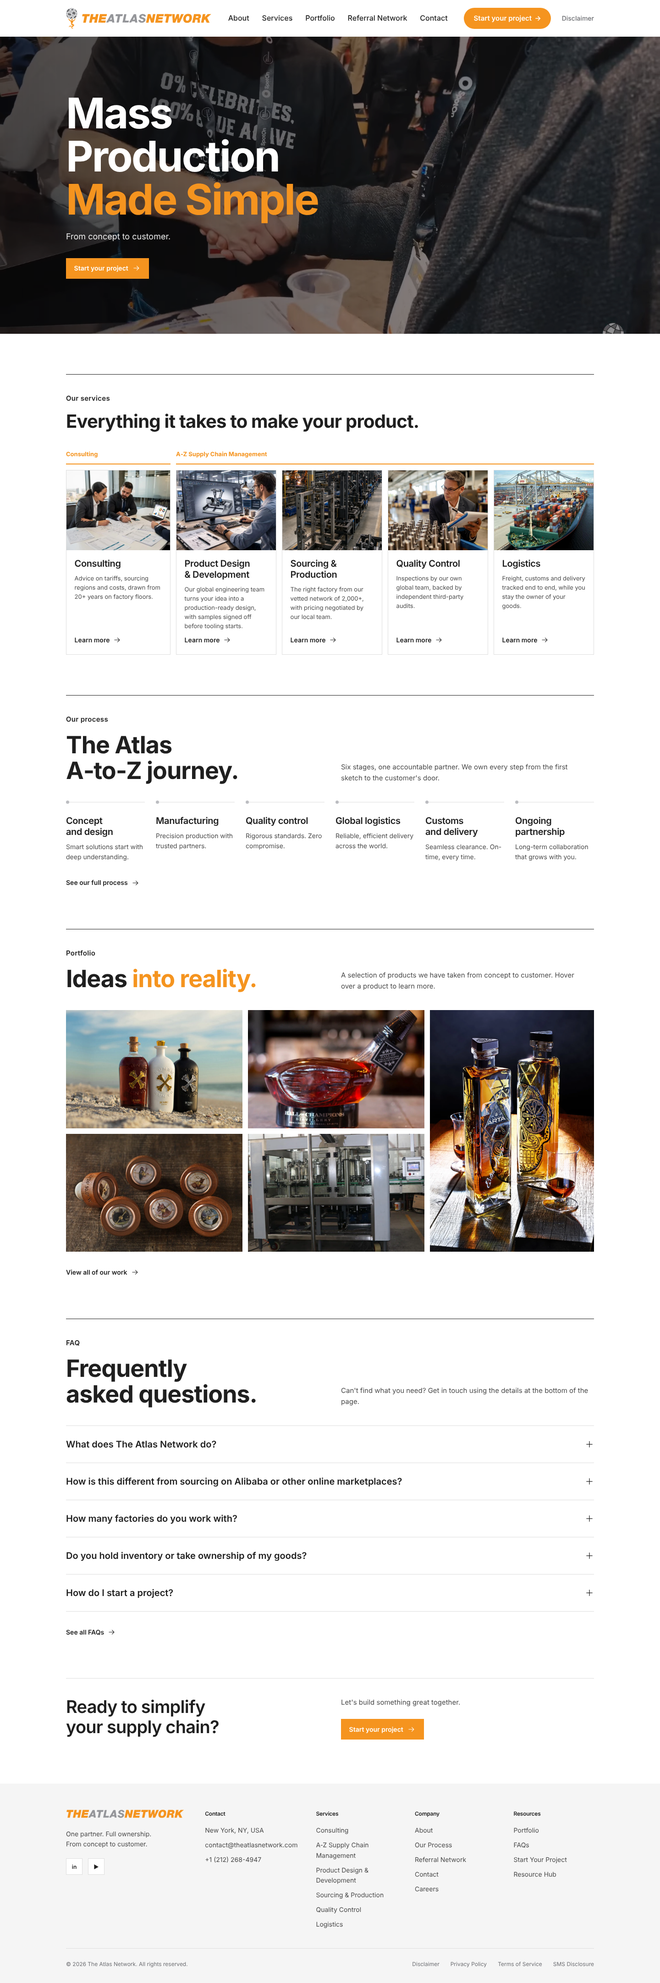
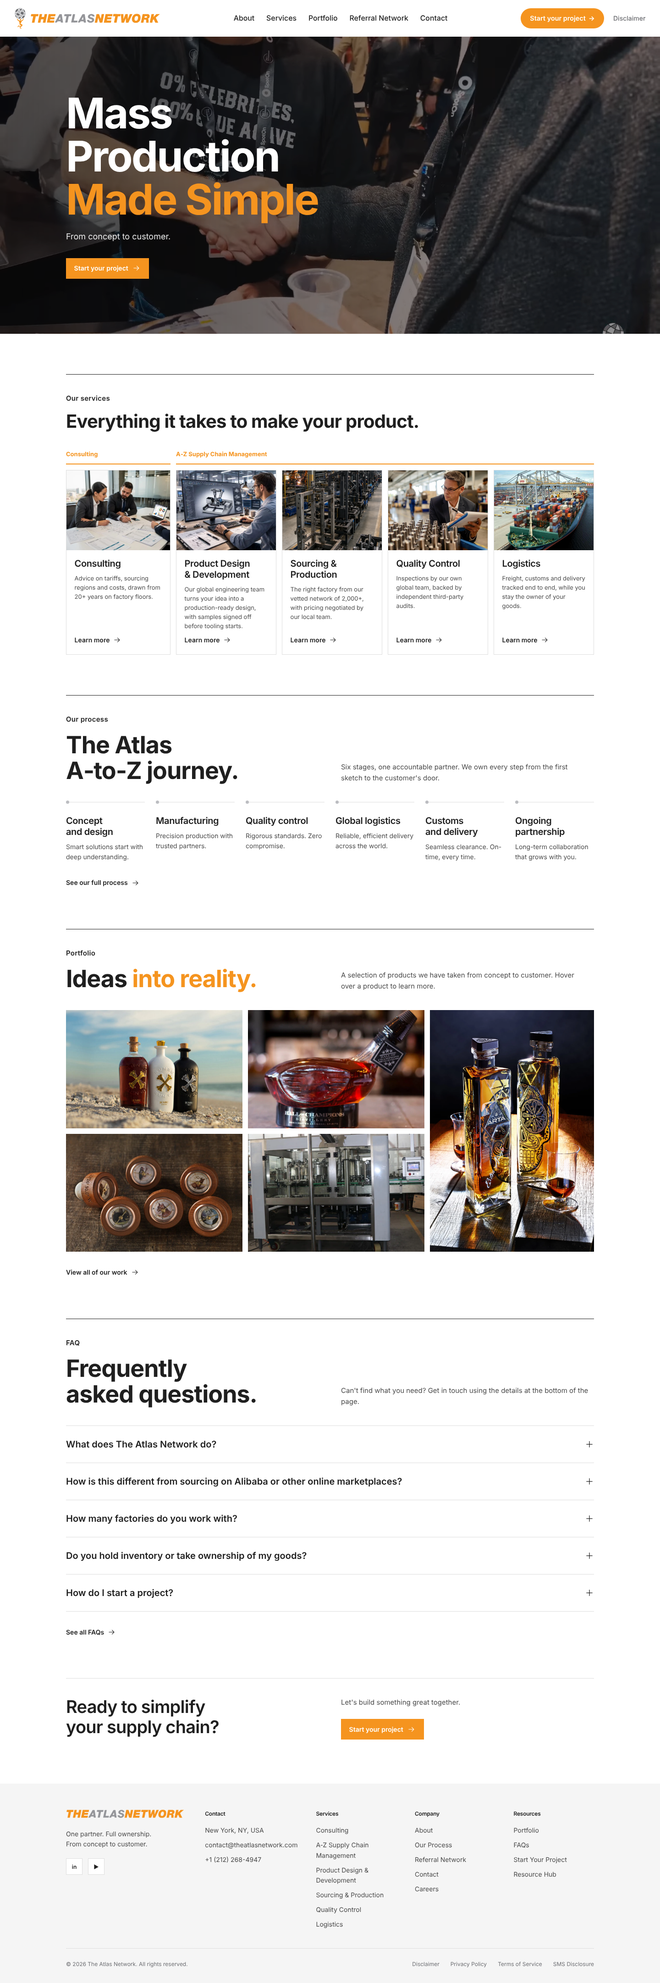
Keep the full top bar on desktop
The top bar uses a wider frame with the logo further left, a centred
menu, and the Start your project button and Disclaimer grouped on the
right. Logo, menu, gaps and button scale down on narrower desktops so
every link stays visible from 1024px up; the menu button is used only
on tablets and phones.

Claude-Session: https://claude.ai/code/session_01YL3eWvwcXdoF4z8yaZ8Eba

diff --git a/assets/css/site.css b/assets/css/site.css
@@ -56,21 +56,25 @@ a.service:hover, .steps a:hover, a.logo:hover, .social a:hover { text-decoration
 
 /* ---- Top bar ---- */
 .topbar { position: sticky; top: env(safe-area-inset-top, 0px); z-index: 50; background: var(--white); }
-.topbar nav { display: flex; align-items: center; justify-content: space-between; gap: 2rem; height: 80px; }
+/* The top bar uses a wider frame than the page so every link fits on desktop; sizes scale down on narrower screens. */
+.topbar .container { max-width: 1440px; padding: 0 clamp(16px, 2.2vw, 40px); }
+.topbar nav { display: flex; align-items: center; gap: clamp(.9rem, 1.4vw, 1.25rem); height: 80px; }
+.topbar .menu { margin-inline: auto; padding-inline: clamp(1rem, 2vw, 2rem); }  /* centred between the logo and the button */
 /* The Atlas figure (assets/images/logo-mark.svg) sits to the left of the wordmark. */
 .logo { display: inline-flex; align-items: center; gap: .6rem; font-weight: 700; font-size: 1rem; letter-spacing: .04em; color: var(--ink); white-space: nowrap; }
 .topbar .logo { font-size: 1.4375rem; line-height: 1; letter-spacing: .02em; }
-.logo-mark { height: 46px; width: auto; }
+.logo-mark { height: clamp(38px, 3.2vw, 46px); width: auto; }
 @media (max-width: 480px) { .topbar .logo-type { height: 17px; } .topbar .logo-mark { height: 40px; } }
-.logo-type { height: 22px; width: auto; }  /* traced wordmark from the company logo */
+.logo-type { height: 22px; width: auto; }
+.topbar .logo-type { height: clamp(17px, 1.55vw, 22px); }  /* traced wordmark from the company logo */
 .footer-cols .logo-type { height: 20px; }
-.menu { display: flex; gap: 1.75rem; font-size: 1rem; font-weight: 500; color: var(--ink); white-space: nowrap; }
+.menu { display: flex; gap: clamp(1rem, 1.8vw, 1.75rem); font-size: clamp(.875rem, 1.1vw, 1rem); font-weight: 500; color: var(--ink); white-space: nowrap; }
 .menu a, .topbar-cta { transition: color .2s; }
 .menu a:hover { color: var(--orange); }
-.topbar-cta { font-size: .9375rem; font-weight: 600; color: var(--white); background: var(--orange); padding: .7rem 1.35rem; border-radius: 999px; white-space: nowrap; display: inline-flex; align-items: center; gap: .4rem; transition: background .2s; }
+.topbar-cta { font-size: clamp(.8125rem, 1vw, .9375rem); font-weight: 600; color: var(--white); background: var(--orange); padding: .65rem clamp(.9rem, 1.4vw, 1.35rem); border-radius: 999px; white-space: nowrap; display: inline-flex; align-items: center; gap: .4rem; transition: background .2s; }
 .topbar-cta:hover { background: var(--orange-dark); }
 .menu-btn { display: none; background: none; border: 0; padding: .5rem; margin-right: -.5rem; color: var(--ink); cursor: pointer; }
-@media (max-width: 1300px) {
+@media (max-width: 1023px) {
   .menu-btn { display: block; }
   .topbar-cta { display: none; }
   .menu { display: none; position: absolute; top: 80px; left: 0; right: 0; flex-direction: column; gap: 0; background: var(--white); border-top: 1px solid var(--rule); padding: .5rem var(--gutter) 1rem; box-shadow: 0 12px 24px rgba(0,0,0,.06); }
@@ -200,10 +204,10 @@ footer { background: var(--surface); margin-top: 3rem; padding: 3.5rem 0 2rem; f
 .menu a[aria-current="page"] { color: var(--orange); }
 .topbar-cta[aria-current="page"] { background: var(--orange-dark); }
 /* Disclaimer link at the far right of the top bar; inside the menu on smaller screens */
-.topbar-aux { font-size: .875rem; font-weight: 500; color: var(--muted); white-space: nowrap; margin-left: -.75rem; }
+.topbar-aux { font-size: clamp(.8125rem, 1vw, .875rem); font-weight: 500; color: var(--muted); white-space: nowrap; }
 .topbar-aux:hover, .topbar-aux[aria-current="page"] { color: var(--orange); }
 .menu-extra { display: none; }
-@media (max-width: 1300px) { .topbar-aux { display: none; } .menu .menu-extra { display: block; } }
+@media (max-width: 1023px) { .topbar-aux { display: none; } .menu .menu-extra { display: block; } }
 
 /* Detail blocks: one per service or process step */
 .detail { padding-top: 4.5rem; scroll-margin-top: 80px; }

diff --git a/start-your-project.html b/start-your-project.html
@@ -7,14 +7,14 @@
 <title>Start Your Project | The Atlas Network</title>
 <meta name="description" content="The Atlas Network is a full-service supply chain company that manages your product end-to-end - concept and design, manufacturing, quality control, global logistics, customs and delivery."/>
 <meta name="robots" content="noindex, follow"/>
-<link href="assets/css/site.css?v=3f98c706" rel="stylesheet"/>
+<link href="assets/css/site.css?v=693f5a7a" rel="stylesheet"/>
 </head>
 <body>
 
 <header class="topbar">
   <div class="container">
     <nav aria-label="Global">
-      <a class="logo" href="index.html" aria-label="The Atlas Network - home"><img class="logo-mark" src="assets/images/logo-mark.svg?v=3f98c706" width="329" height="612" alt=""/><img class="logo-type" src="assets/images/logo-wordmark.svg?v=3f98c706" width="917" height="71" alt=""/></a>
+      <a class="logo" href="index.html" aria-label="The Atlas Network - home"><img class="logo-mark" src="assets/images/logo-mark.svg?v=693f5a7a" width="329" height="612" alt=""/><img class="logo-type" src="assets/images/logo-wordmark.svg?v=693f5a7a" width="917" height="71" alt=""/></a>
       <div id="menu" class="menu">
         <a href="about.html">About</a>
         <a href="services.html">Services</a>
@@ -100,7 +100,7 @@
   <div class="container">
     <div class="footer-cols">
       <div>
-        <a class="logo" href="index.html" aria-label="The Atlas Network - home"><img class="logo-type" src="assets/images/logo-wordmark.svg?v=3f98c706" width="917" height="71" alt=""/></a>
+        <a class="logo" href="index.html" aria-label="The Atlas Network - home"><img class="logo-type" src="assets/images/logo-wordmark.svg?v=693f5a7a" width="917" height="71" alt=""/></a>
         <p class="tagline">One partner. Full ownership.<br/> From concept to customer.</p>
         <div class="social">
           <a href="https://www.linkedin.com/in/theatlasnetwork/" aria-label="LinkedIn">in</a>
@@ -142,7 +142,7 @@
   </div>
 </footer>
 
-<script src="assets/js/site.js?v=3f98c706"></script>
-<script src="assets/js/project-form.js?v=3f98c706"></script>
+<script src="assets/js/site.js?v=693f5a7a"></script>
+<script src="assets/js/project-form.js?v=693f5a7a"></script>
 </body>
 </html>

diff --git a/index.html b/index.html
@@ -7,14 +7,14 @@
 <title>The Atlas Network</title>
 <meta name="description" content="The Atlas Network is a full-service supply chain company that manages your product end-to-end - concept and design, manufacturing, quality control, global logistics, customs and delivery. One partner, zero fragmentation."/>
 <meta name="robots" content="noindex, follow"/>
-<link href="assets/css/site.css?v=3f98c706" rel="stylesheet"/>
+<link href="assets/css/site.css?v=693f5a7a" rel="stylesheet"/>
 </head>
 <body>
 
 <header class="topbar">
   <div class="container">
     <nav aria-label="Global">
-      <a class="logo" href="index.html" aria-label="The Atlas Network - home"><img class="logo-mark" src="assets/images/logo-mark.svg?v=3f98c706" width="329" height="612" alt=""/><img class="logo-type" src="assets/images/logo-wordmark.svg?v=3f98c706" width="917" height="71" alt=""/></a>
+      <a class="logo" href="index.html" aria-label="The Atlas Network - home"><img class="logo-mark" src="assets/images/logo-mark.svg?v=693f5a7a" width="329" height="612" alt=""/><img class="logo-type" src="assets/images/logo-wordmark.svg?v=693f5a7a" width="917" height="71" alt=""/></a>
       <div id="menu" class="menu">
         <a href="about.html">About</a>
         <a href="services.html">Services</a>
@@ -195,7 +195,7 @@
   <div class="container">
     <div class="footer-cols">
       <div>
-        <a class="logo" href="index.html" aria-label="The Atlas Network - home"><img class="logo-type" src="assets/images/logo-wordmark.svg?v=3f98c706" width="917" height="71" alt=""/></a>
+        <a class="logo" href="index.html" aria-label="The Atlas Network - home"><img class="logo-type" src="assets/images/logo-wordmark.svg?v=693f5a7a" width="917" height="71" alt=""/></a>
         <p class="tagline">One partner. Full ownership.<br/> From concept to customer.</p>
         <div class="social">
           <a href="https://www.linkedin.com/in/theatlasnetwork/" aria-label="LinkedIn">in</a>
@@ -237,6 +237,6 @@
   </div>
 </footer>
 
-<script src="assets/js/site.js?v=3f98c706"></script>
+<script src="assets/js/site.js?v=693f5a7a"></script>
 </body>
 </html>

diff --git a/about.html b/about.html
@@ -7,14 +7,14 @@
 <title>About Us | The Atlas Network</title>
 <meta name="description" content="The Atlas Network is a full-service supply chain company that manages your product end-to-end - concept and design, manufacturing, quality control, global logistics, customs and delivery."/>
 <meta name="robots" content="noindex, follow"/>
-<link href="assets/css/site.css?v=3f98c706" rel="stylesheet"/>
+<link href="assets/css/site.css?v=693f5a7a" rel="stylesheet"/>
 </head>
 <body>
 
 <header class="topbar">
   <div class="container">
     <nav aria-label="Global">
-      <a class="logo" href="index.html" aria-label="The Atlas Network - home"><img class="logo-mark" src="assets/images/logo-mark.svg?v=3f98c706" width="329" height="612" alt=""/><img class="logo-type" src="assets/images/logo-wordmark.svg?v=3f98c706" width="917" height="71" alt=""/></a>
+      <a class="logo" href="index.html" aria-label="The Atlas Network - home"><img class="logo-mark" src="assets/images/logo-mark.svg?v=693f5a7a" width="329" height="612" alt=""/><img class="logo-type" src="assets/images/logo-wordmark.svg?v=693f5a7a" width="917" height="71" alt=""/></a>
       <div id="menu" class="menu">
         <a href="about.html" aria-current="page">About</a>
         <a href="services.html">Services</a>
@@ -143,7 +143,7 @@
   <div class="container">
     <div class="footer-cols">
       <div>
-        <a class="logo" href="index.html" aria-label="The Atlas Network - home"><img class="logo-type" src="assets/images/logo-wordmark.svg?v=3f98c706" width="917" height="71" alt=""/></a>
+        <a class="logo" href="index.html" aria-label="The Atlas Network - home"><img class="logo-type" src="assets/images/logo-wordmark.svg?v=693f5a7a" width="917" height="71" alt=""/></a>
         <p class="tagline">One partner. Full ownership.<br/> From concept to customer.</p>
         <div class="social">
           <a href="https://www.linkedin.com/in/theatlasnetwork/" aria-label="LinkedIn">in</a>
@@ -185,6 +185,6 @@
   </div>
 </footer>
 
-<script src="assets/js/site.js?v=3f98c706"></script>
+<script src="assets/js/site.js?v=693f5a7a"></script>
 </body>
 </html>

diff --git a/services.html b/services.html
@@ -7,14 +7,14 @@
 <title>Services | The Atlas Network</title>
 <meta name="description" content="The Atlas Network is a full-service supply chain company that manages your product end-to-end - concept and design, manufacturing, quality control, global logistics, customs and delivery."/>
 <meta name="robots" content="noindex, follow"/>
-<link href="assets/css/site.css?v=3f98c706" rel="stylesheet"/>
+<link href="assets/css/site.css?v=693f5a7a" rel="stylesheet"/>
 </head>
 <body>
 
 <header class="topbar">
   <div class="container">
     <nav aria-label="Global">
-      <a class="logo" href="index.html" aria-label="The Atlas Network - home"><img class="logo-mark" src="assets/images/logo-mark.svg?v=3f98c706" width="329" height="612" alt=""/><img class="logo-type" src="assets/images/logo-wordmark.svg?v=3f98c706" width="917" height="71" alt=""/></a>
+      <a class="logo" href="index.html" aria-label="The Atlas Network - home"><img class="logo-mark" src="assets/images/logo-mark.svg?v=693f5a7a" width="329" height="612" alt=""/><img class="logo-type" src="assets/images/logo-wordmark.svg?v=693f5a7a" width="917" height="71" alt=""/></a>
       <div id="menu" class="menu">
         <a href="about.html">About</a>
         <a href="services.html" aria-current="page">Services</a>
@@ -199,7 +199,7 @@
   <div class="container">
     <div class="footer-cols">
       <div>
-        <a class="logo" href="index.html" aria-label="The Atlas Network - home"><img class="logo-type" src="assets/images/logo-wordmark.svg?v=3f98c706" width="917" height="71" alt=""/></a>
+        <a class="logo" href="index.html" aria-label="The Atlas Network - home"><img class="logo-type" src="assets/images/logo-wordmark.svg?v=693f5a7a" width="917" height="71" alt=""/></a>
         <p class="tagline">One partner. Full ownership.<br/> From concept to customer.</p>
         <div class="social">
           <a href="https://www.linkedin.com/in/theatlasnetwork/" aria-label="LinkedIn">in</a>
@@ -241,6 +241,6 @@
   </div>
 </footer>
 
-<script src="assets/js/site.js?v=3f98c706"></script>
+<script src="assets/js/site.js?v=693f5a7a"></script>
 </body>
 </html>

diff --git a/referral-network.html b/referral-network.html
@@ -7,14 +7,14 @@
 <title>Referral Network | The Atlas Network</title>
 <meta name="description" content="The Atlas Network is a full-service supply chain company that manages your product end-to-end - concept and design, manufacturing, quality control, global logistics, customs and delivery."/>
 <meta name="robots" content="noindex, follow"/>
-<link href="assets/css/site.css?v=3f98c706" rel="stylesheet"/>
+<link href="assets/css/site.css?v=693f5a7a" rel="stylesheet"/>
 </head>
 <body>
 
 <header class="topbar">
   <div class="container">
     <nav aria-label="Global">
-      <a class="logo" href="index.html" aria-label="The Atlas Network - home"><img class="logo-mark" src="assets/images/logo-mark.svg?v=3f98c706" width="329" height="612" alt=""/><img class="logo-type" src="assets/images/logo-wordmark.svg?v=3f98c706" width="917" height="71" alt=""/></a>
+      <a class="logo" href="index.html" aria-label="The Atlas Network - home"><img class="logo-mark" src="assets/images/logo-mark.svg?v=693f5a7a" width="329" height="612" alt=""/><img class="logo-type" src="assets/images/logo-wordmark.svg?v=693f5a7a" width="917" height="71" alt=""/></a>
       <div id="menu" class="menu">
         <a href="about.html">About</a>
         <a href="services.html">Services</a>
@@ -64,7 +64,7 @@
   <div class="container">
     <div class="footer-cols">
       <div>
-        <a class="logo" href="index.html" aria-label="The Atlas Network - home"><img class="logo-type" src="assets/images/logo-wordmark.svg?v=3f98c706" width="917" height="71" alt=""/></a>
+        <a class="logo" href="index.html" aria-label="The Atlas Network - home"><img class="logo-type" src="assets/images/logo-wordmark.svg?v=693f5a7a" width="917" height="71" alt=""/></a>
         <p class="tagline">One partner. Full ownership.<br/> From concept to customer.</p>
         <div class="social">
           <a href="https://www.linkedin.com/in/theatlasnetwork/" aria-label="LinkedIn">in</a>
@@ -106,6 +106,6 @@
   </div>
 </footer>
 
-<script src="assets/js/site.js?v=3f98c706"></script>
+<script src="assets/js/site.js?v=693f5a7a"></script>
 </body>
 </html>

diff --git a/process.html b/process.html
@@ -7,14 +7,14 @@
 <title>Our Process | The Atlas Network</title>
 <meta name="description" content="The Atlas Network is a full-service supply chain company that manages your product end-to-end - concept and design, manufacturing, quality control, global logistics, customs and delivery."/>
 <meta name="robots" content="noindex, follow"/>
-<link href="assets/css/site.css?v=3f98c706" rel="stylesheet"/>
+<link href="assets/css/site.css?v=693f5a7a" rel="stylesheet"/>
 </head>
 <body>
 
 <header class="topbar">
   <div class="container">
     <nav aria-label="Global">
-      <a class="logo" href="index.html" aria-label="The Atlas Network - home"><img class="logo-mark" src="assets/images/logo-mark.svg?v=3f98c706" width="329" height="612" alt=""/><img class="logo-type" src="assets/images/logo-wordmark.svg?v=3f98c706" width="917" height="71" alt=""/></a>
+      <a class="logo" href="index.html" aria-label="The Atlas Network - home"><img class="logo-mark" src="assets/images/logo-mark.svg?v=693f5a7a" width="329" height="612" alt=""/><img class="logo-type" src="assets/images/logo-wordmark.svg?v=693f5a7a" width="917" height="71" alt=""/></a>
       <div id="menu" class="menu">
         <a href="about.html">About</a>
         <a href="services.html">Services</a>
@@ -150,7 +150,7 @@
   <div class="container">
     <div class="footer-cols">
       <div>
-        <a class="logo" href="index.html" aria-label="The Atlas Network - home"><img class="logo-type" src="assets/images/logo-wordmark.svg?v=3f98c706" width="917" height="71" alt=""/></a>
+        <a class="logo" href="index.html" aria-label="The Atlas Network - home"><img class="logo-type" src="assets/images/logo-wordmark.svg?v=693f5a7a" width="917" height="71" alt=""/></a>
         <p class="tagline">One partner. Full ownership.<br/> From concept to customer.</p>
         <div class="social">
           <a href="https://www.linkedin.com/in/theatlasnetwork/" aria-label="LinkedIn">in</a>
@@ -192,6 +192,6 @@
   </div>
 </footer>
 
-<script src="assets/js/site.js?v=3f98c706"></script>
+<script src="assets/js/site.js?v=693f5a7a"></script>
 </body>
 </html>

diff --git a/work.html b/work.html
@@ -7,14 +7,14 @@
 <title>Portfolio | The Atlas Network</title>
 <meta name="description" content="The Atlas Network is a full-service supply chain company that manages your product end-to-end - concept and design, manufacturing, quality control, global logistics, customs and delivery."/>
 <meta name="robots" content="noindex, follow"/>
-<link href="assets/css/site.css?v=3f98c706" rel="stylesheet"/>
+<link href="assets/css/site.css?v=693f5a7a" rel="stylesheet"/>
 </head>
 <body>
 
 <header class="topbar">
   <div class="container">
     <nav aria-label="Global">
-      <a class="logo" href="index.html" aria-label="The Atlas Network - home"><img class="logo-mark" src="assets/images/logo-mark.svg?v=3f98c706" width="329" height="612" alt=""/><img class="logo-type" src="assets/images/logo-wordmark.svg?v=3f98c706" width="917" height="71" alt=""/></a>
+      <a class="logo" href="index.html" aria-label="The Atlas Network - home"><img class="logo-mark" src="assets/images/logo-mark.svg?v=693f5a7a" width="329" height="612" alt=""/><img class="logo-type" src="assets/images/logo-wordmark.svg?v=693f5a7a" width="917" height="71" alt=""/></a>
       <div id="menu" class="menu">
         <a href="about.html">About</a>
         <a href="services.html">Services</a>
@@ -114,7 +114,7 @@
   <div class="container">
     <div class="footer-cols">
       <div>
-        <a class="logo" href="index.html" aria-label="The Atlas Network - home"><img class="logo-type" src="assets/images/logo-wordmark.svg?v=3f98c706" width="917" height="71" alt=""/></a>
+        <a class="logo" href="index.html" aria-label="The Atlas Network - home"><img class="logo-type" src="assets/images/logo-wordmark.svg?v=693f5a7a" width="917" height="71" alt=""/></a>
         <p class="tagline">One partner. Full ownership.<br/> From concept to customer.</p>
         <div class="social">
           <a href="https://www.linkedin.com/in/theatlasnetwork/" aria-label="LinkedIn">in</a>
@@ -156,6 +156,6 @@
   </div>
 </footer>
 
-<script src="assets/js/site.js?v=3f98c706"></script>
+<script src="assets/js/site.js?v=693f5a7a"></script>
 </body>
 </html>

diff --git a/disclaimer.html b/disclaimer.html
@@ -7,14 +7,14 @@
 <title>Disclaimer | The Atlas Network</title>
 <meta name="description" content="The Atlas Network is a full-service supply chain company that manages your product end-to-end - concept and design, manufacturing, quality control, global logistics, customs and delivery."/>
 <meta name="robots" content="noindex, follow"/>
-<link href="assets/css/site.css?v=3f98c706" rel="stylesheet"/>
+<link href="assets/css/site.css?v=693f5a7a" rel="stylesheet"/>
 </head>
 <body>
 
 <header class="topbar">
   <div class="container">
     <nav aria-label="Global">
-      <a class="logo" href="index.html" aria-label="The Atlas Network - home"><img class="logo-mark" src="assets/images/logo-mark.svg?v=3f98c706" width="329" height="612" alt=""/><img class="logo-type" src="assets/images/logo-wordmark.svg?v=3f98c706" width="917" height="71" alt=""/></a>
+      <a class="logo" href="index.html" aria-label="The Atlas Network - home"><img class="logo-mark" src="assets/images/logo-mark.svg?v=693f5a7a" width="329" height="612" alt=""/><img class="logo-type" src="assets/images/logo-wordmark.svg?v=693f5a7a" width="917" height="71" alt=""/></a>
       <div id="menu" class="menu">
         <a href="about.html">About</a>
         <a href="services.html">Services</a>
@@ -76,7 +76,7 @@
   <div class="container">
     <div class="footer-cols">
       <div>
-        <a class="logo" href="index.html" aria-label="The Atlas Network - home"><img class="logo-type" src="assets/images/logo-wordmark.svg?v=3f98c706" width="917" height="71" alt=""/></a>
+        <a class="logo" href="index.html" aria-label="The Atlas Network - home"><img class="logo-type" src="assets/images/logo-wordmark.svg?v=693f5a7a" width="917" height="71" alt=""/></a>
         <p class="tagline">One partner. Full ownership.<br/> From concept to customer.</p>
         <div class="social">
           <a href="https://www.linkedin.com/in/theatlasnetwork/" aria-label="LinkedIn">in</a>
@@ -118,6 +118,6 @@
   </div>
 </footer>
 
-<script src="assets/js/site.js?v=3f98c706"></script>
+<script src="assets/js/site.js?v=693f5a7a"></script>
 </body>
 </html>

diff --git a/contact.html b/contact.html
@@ -7,14 +7,14 @@
 <title>Contact | The Atlas Network</title>
 <meta name="description" content="The Atlas Network is a full-service supply chain company that manages your product end-to-end - concept and design, manufacturing, quality control, global logistics, customs and delivery."/>
 <meta name="robots" content="noindex, follow"/>
-<link href="assets/css/site.css?v=3f98c706" rel="stylesheet"/>
+<link href="assets/css/site.css?v=693f5a7a" rel="stylesheet"/>
 </head>
 <body>
 
 <header class="topbar">
   <div class="container">
     <nav aria-label="Global">
-      <a class="logo" href="index.html" aria-label="The Atlas Network - home"><img class="logo-mark" src="assets/images/logo-mark.svg?v=3f98c706" width="329" height="612" alt=""/><img class="logo-type" src="assets/images/logo-wordmark.svg?v=3f98c706" width="917" height="71" alt=""/></a>
+      <a class="logo" href="index.html" aria-label="The Atlas Network - home"><img class="logo-mark" src="assets/images/logo-mark.svg?v=693f5a7a" width="329" height="612" alt=""/><img class="logo-type" src="assets/images/logo-wordmark.svg?v=693f5a7a" width="917" height="71" alt=""/></a>
       <div id="menu" class="menu">
         <a href="about.html">About</a>
         <a href="services.html">Services</a>
@@ -86,7 +86,7 @@
   <div class="container">
     <div class="footer-cols">
       <div>
-        <a class="logo" href="index.html" aria-label="The Atlas Network - home"><img class="logo-type" src="assets/images/logo-wordmark.svg?v=3f98c706" width="917" height="71" alt=""/></a>
+        <a class="logo" href="index.html" aria-label="The Atlas Network - home"><img class="logo-type" src="assets/images/logo-wordmark.svg?v=693f5a7a" width="917" height="71" alt=""/></a>
         <p class="tagline">One partner. Full ownership.<br/> From concept to customer.</p>
         <div class="social">
           <a href="https://www.linkedin.com/in/theatlasnetwork/" aria-label="LinkedIn">in</a>
@@ -128,6 +128,6 @@
   </div>
 </footer>
 
-<script src="assets/js/site.js?v=3f98c706"></script>
+<script src="assets/js/site.js?v=693f5a7a"></script>
 </body>
 </html>

diff --git a/faq.html b/faq.html
@@ -7,14 +7,14 @@
 <title>FAQ | The Atlas Network</title>
 <meta name="description" content="The Atlas Network is a full-service supply chain company that manages your product end-to-end - concept and design, manufacturing, quality control, global logistics, customs and delivery."/>
 <meta name="robots" content="noindex, follow"/>
-<link href="assets/css/site.css?v=3f98c706" rel="stylesheet"/>
+<link href="assets/css/site.css?v=693f5a7a" rel="stylesheet"/>
 </head>
 <body>
 
 <header class="topbar">
   <div class="container">
     <nav aria-label="Global">
-      <a class="logo" href="index.html" aria-label="The Atlas Network - home"><img class="logo-mark" src="assets/images/logo-mark.svg?v=3f98c706" width="329" height="612" alt=""/><img class="logo-type" src="assets/images/logo-wordmark.svg?v=3f98c706" width="917" height="71" alt=""/></a>
+      <a class="logo" href="index.html" aria-label="The Atlas Network - home"><img class="logo-mark" src="assets/images/logo-mark.svg?v=693f5a7a" width="329" height="612" alt=""/><img class="logo-type" src="assets/images/logo-wordmark.svg?v=693f5a7a" width="917" height="71" alt=""/></a>
       <div id="menu" class="menu">
         <a href="about.html">About</a>
         <a href="services.html">Services</a>
@@ -149,7 +149,7 @@
   <div class="container">
     <div class="footer-cols">
       <div>
-        <a class="logo" href="index.html" aria-label="The Atlas Network - home"><img class="logo-type" src="assets/images/logo-wordmark.svg?v=3f98c706" width="917" height="71" alt=""/></a>
+        <a class="logo" href="index.html" aria-label="The Atlas Network - home"><img class="logo-type" src="assets/images/logo-wordmark.svg?v=693f5a7a" width="917" height="71" alt=""/></a>
         <p class="tagline">One partner. Full ownership.<br/> From concept to customer.</p>
         <div class="social">
           <a href="https://www.linkedin.com/in/theatlasnetwork/" aria-label="LinkedIn">in</a>
@@ -191,6 +191,6 @@
   </div>
 </footer>
 
-<script src="assets/js/site.js?v=3f98c706"></script>
+<script src="assets/js/site.js?v=693f5a7a"></script>
 </body>
 </html>
